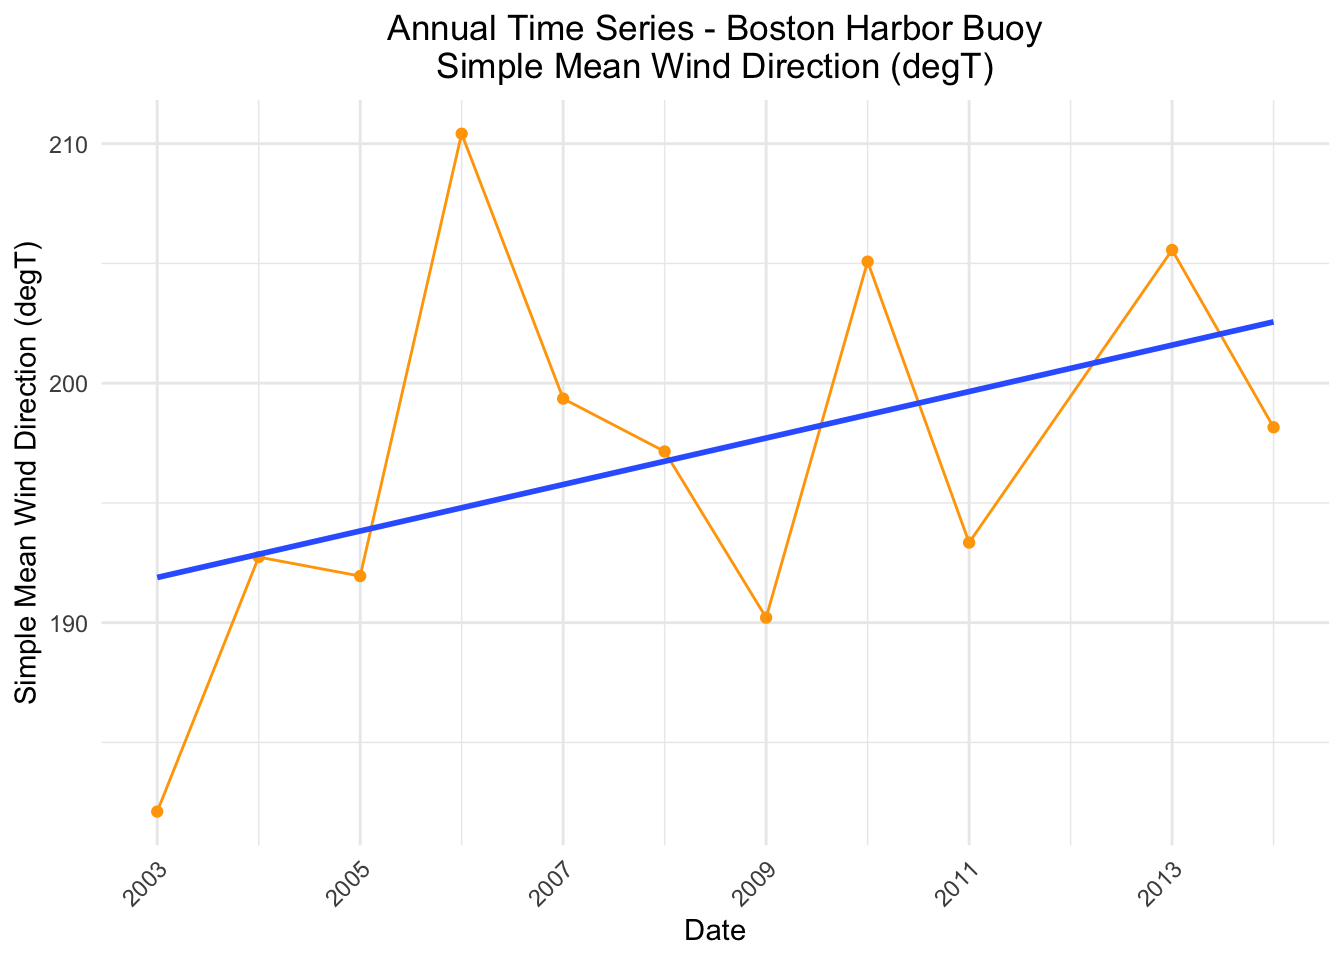
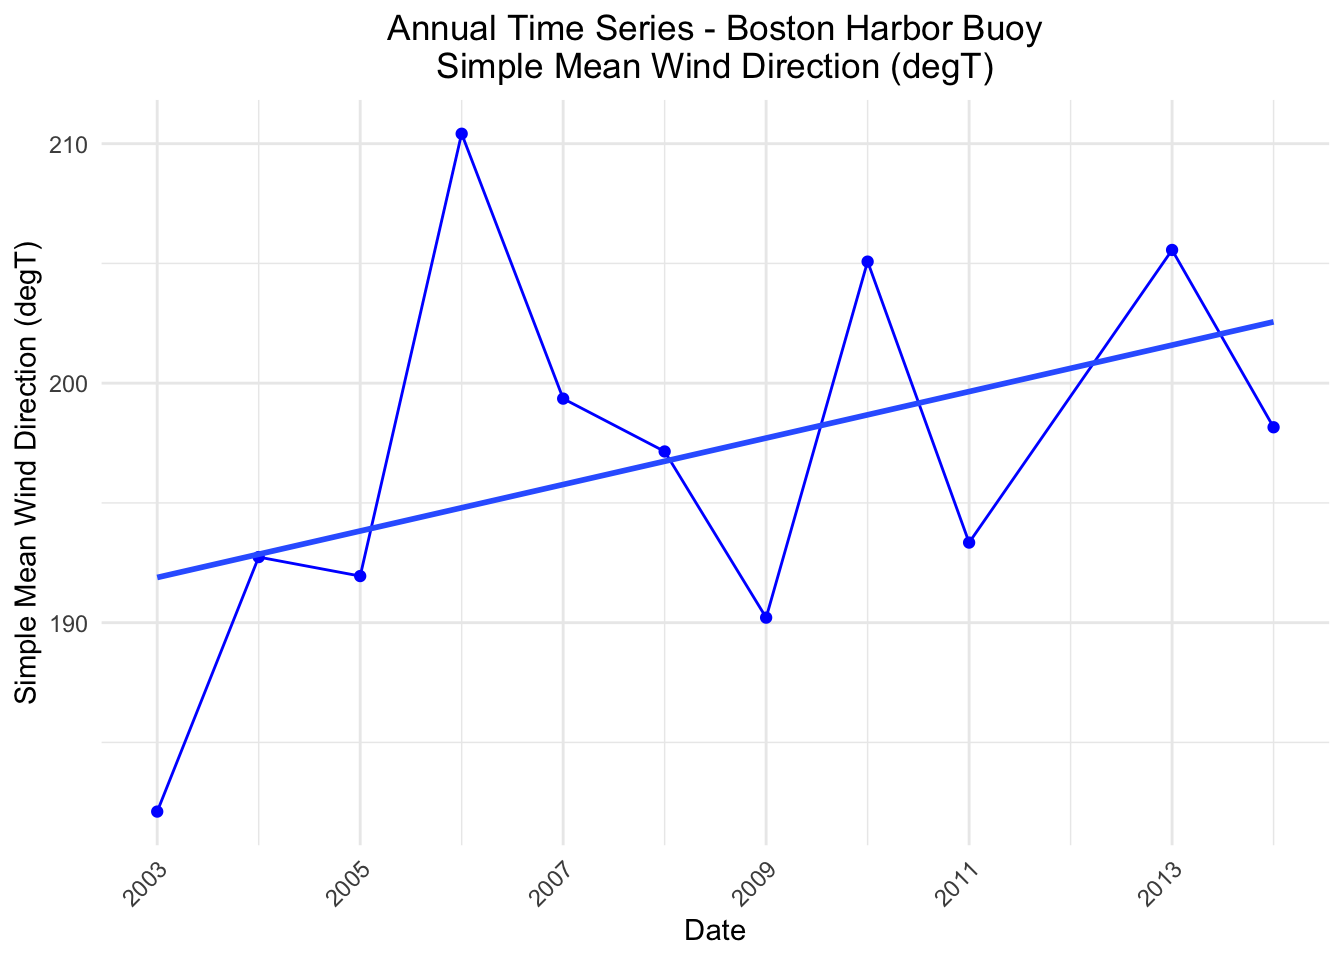
Fix simple wind direction plot colors

diff --git a/quarto_docs/buoy_A01_ERDDAP.html b/quarto_docs/buoy_A01_ERDDAP.html
@@ -648,9 +648,9 @@ pre > code.sourceCode > span > a:first-child::before { text-decoration: underlin
 <span id="cb13-3"><a href="#cb13-3" aria-hidden="true" tabindex="-1"></a>  p <span class="ot">&lt;-</span> <span class="fu">ggplot</span>(A01_met_all_annual_summary,</span>
 <span id="cb13-4"><a href="#cb13-4" aria-hidden="true" tabindex="-1"></a>              <span class="fu">aes</span>(<span class="at">x =</span> year,</span>
 <span id="cb13-5"><a href="#cb13-5" aria-hidden="true" tabindex="-1"></a>                  <span class="at">y =</span> .data[[var]])) <span class="sc">+</span></span>
-<span id="cb13-6"><a href="#cb13-6" aria-hidden="true" tabindex="-1"></a>    <span class="fu">geom_point</span>() <span class="sc">+</span></span>
+<span id="cb13-6"><a href="#cb13-6" aria-hidden="true" tabindex="-1"></a>    <span class="fu">geom_point</span>(<span class="at">color =</span> <span class="st">"orange"</span>) <span class="sc">+</span></span>
 <span id="cb13-7"><a href="#cb13-7" aria-hidden="true" tabindex="-1"></a>    <span class="fu">geom_line</span>(<span class="at">data =</span> <span class="fu">filter</span>(A01_met_all_annual_summary, <span class="sc">!</span><span class="fu">is.na</span>(wind_direction_mean_simple)),</span>
-<span id="cb13-8"><a href="#cb13-8" aria-hidden="true" tabindex="-1"></a>              <span class="at">color =</span> <span class="st">"blue"</span>) <span class="sc">+</span></span>
+<span id="cb13-8"><a href="#cb13-8" aria-hidden="true" tabindex="-1"></a>              <span class="at">color =</span> <span class="st">"orange"</span>) <span class="sc">+</span></span>
 <span id="cb13-9"><a href="#cb13-9" aria-hidden="true" tabindex="-1"></a>    <span class="fu">geom_smooth</span>(<span class="at">method =</span> <span class="st">"lm"</span>, <span class="at">se =</span> <span class="cn">FALSE</span>) <span class="sc">+</span></span>
 <span id="cb13-10"><a href="#cb13-10" aria-hidden="true" tabindex="-1"></a>    <span class="fu">labs</span>(<span class="at">x =</span> <span class="st">"Date"</span>,</span>
 <span id="cb13-11"><a href="#cb13-11" aria-hidden="true" tabindex="-1"></a>         <span class="at">y =</span> variable_means_meta[[var]],</span>

diff --git a/quarto_docs/buoy_44013_NDBC.html b/quarto_docs/buoy_44013_NDBC.html
@@ -586,8 +586,8 @@ pre > code.sourceCode > span > a:first-child::before { text-decoration: underlin
 <span id="cb7-3"><a href="#cb7-3" aria-hidden="true" tabindex="-1"></a>  p <span class="ot">&lt;-</span> <span class="fu">ggplot</span>(<span class="fu">filter</span>(buoy_data_annual, YYYY <span class="sc">%in%</span> <span class="fu">c</span>(<span class="dv">2003</span><span class="sc">:</span><span class="dv">2014</span>)),</span>
 <span id="cb7-4"><a href="#cb7-4" aria-hidden="true" tabindex="-1"></a>              <span class="fu">aes</span>(<span class="at">x =</span> YYYY,</span>
 <span id="cb7-5"><a href="#cb7-5" aria-hidden="true" tabindex="-1"></a>                  <span class="at">y =</span> .data[[var]])) <span class="sc">+</span></span>
-<span id="cb7-6"><a href="#cb7-6" aria-hidden="true" tabindex="-1"></a>    <span class="fu">geom_point</span>(<span class="at">color =</span> <span class="st">"orange"</span>) <span class="sc">+</span></span>
-<span id="cb7-7"><a href="#cb7-7" aria-hidden="true" tabindex="-1"></a>    <span class="fu">geom_line</span>(<span class="at">color =</span> <span class="st">"orange"</span>) <span class="sc">+</span></span>
+<span id="cb7-6"><a href="#cb7-6" aria-hidden="true" tabindex="-1"></a>    <span class="fu">geom_point</span>(<span class="at">color =</span> <span class="st">"blue"</span>) <span class="sc">+</span></span>
+<span id="cb7-7"><a href="#cb7-7" aria-hidden="true" tabindex="-1"></a>    <span class="fu">geom_line</span>(<span class="at">color =</span> <span class="st">"blue"</span>) <span class="sc">+</span></span>
 <span id="cb7-8"><a href="#cb7-8" aria-hidden="true" tabindex="-1"></a>    <span class="fu">geom_smooth</span>(<span class="at">method =</span> <span class="st">"lm"</span>, <span class="at">se =</span> <span class="cn">FALSE</span>) <span class="sc">+</span></span>
 <span id="cb7-9"><a href="#cb7-9" aria-hidden="true" tabindex="-1"></a>    <span class="fu">labs</span>(<span class="at">x =</span> <span class="st">"Date"</span>,</span>
 <span id="cb7-10"><a href="#cb7-10" aria-hidden="true" tabindex="-1"></a>         <span class="at">y =</span> variables_meta[[var]],</span>
